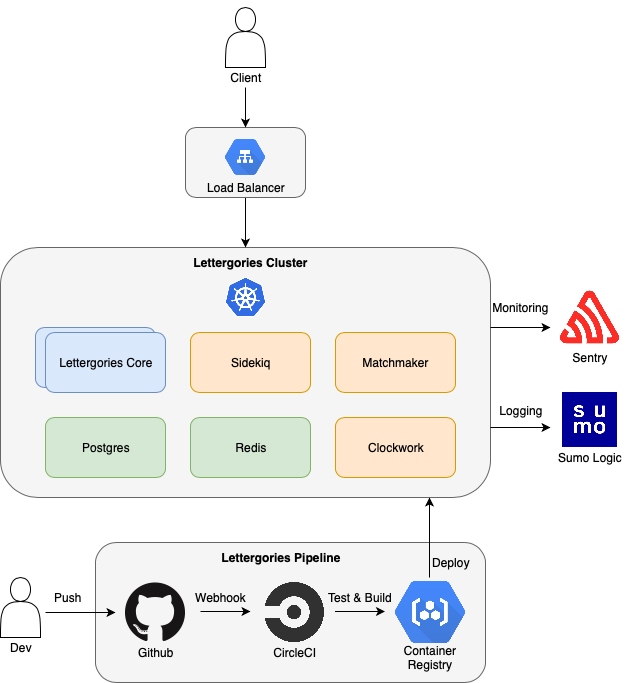
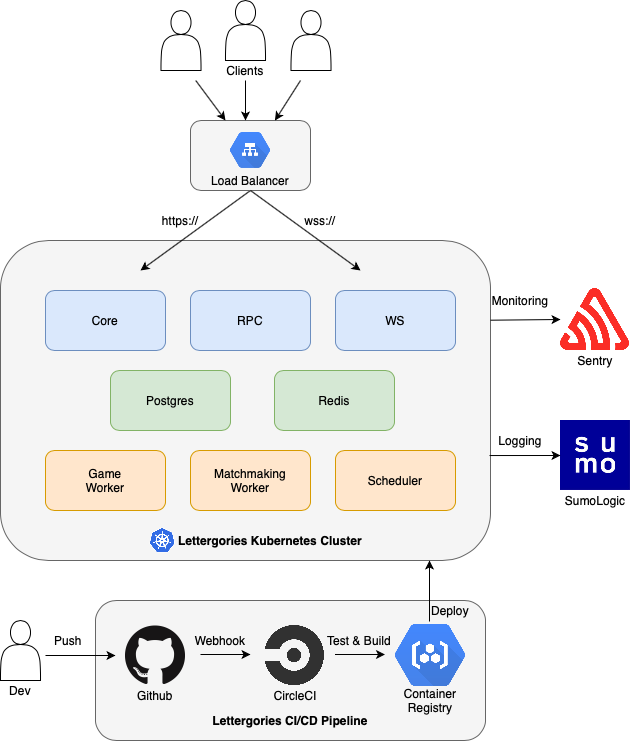
update

diff --git a/_posts/2020-04-18-lettergories-tech-stack.md b/_posts/2020-04-18-lettergories-tech-stack.md
@@ -20,6 +20,8 @@ The server-side stack of Lettergories is built with Ruby on Rails, with Postgres
 
 After I introduced public match into the game, I added another background worker that is dedicated to running the matchmaking service. Having another background worker instead of sharing the same background worker and using multiple queues guarantees me that the jobs will run concurrently independent of each other.
 
+Building a turn-based game, latency has a less pronounced effect but can still negatively impact the user experience. To reduce latency in waiting times between each rounds, I replaced Rails’ ActionCable with AnyCable. With AnyCable, I can use any (more performant) websocket server to replace ActionCable as it forwards the socket management via gRPC. Implementing it has cut an average of 4 seconds of waiting time.
+
 All the services in Lettergories are containerized and run inside a Kubernetes cluster on Google Cloud. Using Kubernetes gives me the ability to optimize infrastructural resources thanks to the more efficient use of hardware.
 
 The client-side stack of Lettergories is built with React Native as it lets me write the same code for both iOS and Android. If I ever work on the web version of Lettergories, I can also reuse the same code too, well, most of it.
